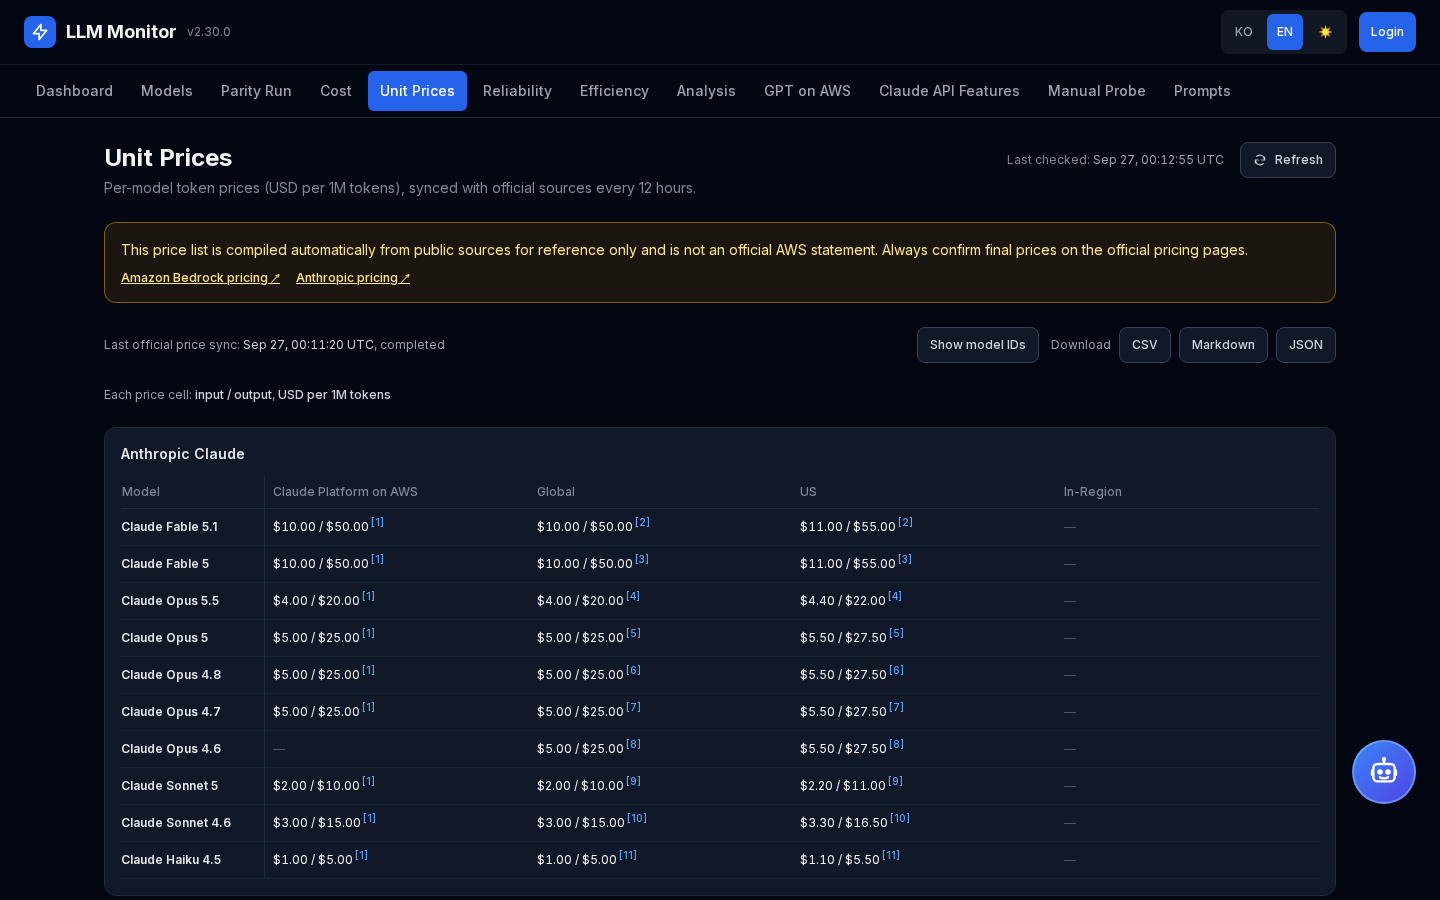
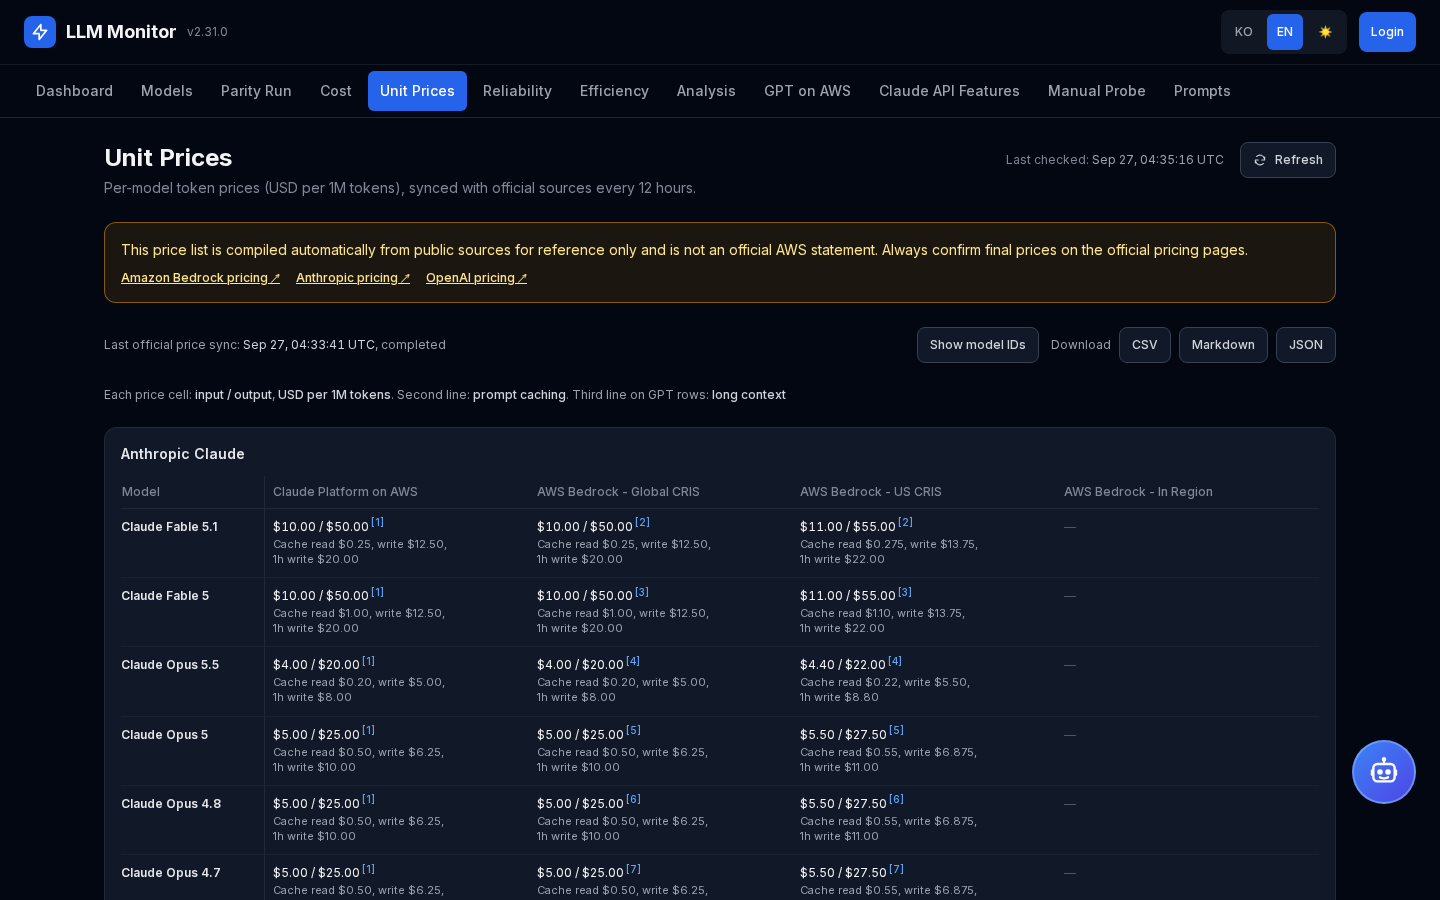
docs(readme): production Unit Prices screenshot for v2.31.0 (EN/KO)

diff --git a/README.md b/README.md
@@ -48,9 +48,9 @@ The system runs on AWS ECS Fargate (CDK-managed, 8 stacks), with EventBridge Sch
 | **Parity Run** | **Cost** |
 | ![Provider health cards and the model by API surface parity matrix](docs/images/ui/parity-en.png) | ![24-hour cost, 30-day projection and channel comparison](docs/images/ui/cost-en.png) |
 | **Reliability** | **Unit Prices** |
-| ![Per-family success rate and latency across channels](docs/images/ui/reliability-en.png) | ![Unit Prices: per-model input and output prices by channel with footnoted official sources](docs/images/ui/pricing-en.png) |
+| ![Per-family success rate and latency across channels](docs/images/ui/reliability-en.png) | ![Unit Prices: per-model input / output, prompt-caching and GPT long-context prices by channel with footnoted official sources](docs/images/ui/pricing-en.png) |
 
-Captured from production on 2026-09-26 (v2.29.0, dark theme, 1440x900). The Claude Platform on AWS column in Claude API Features and Reliability still reflects the monthly usage-cap 429 period that v2.29.0 stopped retrying, and the dashboard collection line still shows "Claude Platform on AWS every 10 min", which v2.29.1 removed with the return to every-cycle probing. The Unit Prices capture is from 2026-09-27 (v2.30.0, after the first official price sync). Korean UI captures use the `-ko.png` suffix in the same directory.
+Captured from production on 2026-09-26 (v2.29.0, dark theme, 1440x900). The Claude Platform on AWS column in Claude API Features and Reliability still reflects the monthly usage-cap 429 period that v2.29.0 stopped retrying, and the dashboard collection line still shows "Claude Platform on AWS every 10 min", which v2.29.1 removed with the return to every-cycle probing. The Unit Prices capture is from 2026-09-27 (v2.31.0, after the first price sync with prompt-caching and long-context prices). Korean UI captures use the `-ko.png` suffix in the same directory.
 
 ## Prerequisites
 
@@ -384,9 +384,9 @@ Amazon Bedrock LLM Monitor는 Bedrock Global / US 추론 프로파일(Claude Opu
 | **패리티 런** | **비용** |
 | ![프로바이더별 헬스 카드와 모델 × API surface 패리티 매트릭스](docs/images/ui/parity-ko.png) | ![24시간 비용, 30일 예측, 채널 비교](docs/images/ui/cost-ko.png) |
 | **신뢰성** | **비용 단가** |
-| ![family별 채널 성공률과 지연 비교](docs/images/ui/reliability-ko.png) | ![비용 단가: 채널별 모델 입력, 출력 단가와 각주로 연결된 공식 출처](docs/images/ui/pricing-ko.png) |
+| ![family별 채널 성공률과 지연 비교](docs/images/ui/reliability-ko.png) | ![비용 단가: 채널별 모델 입력, 출력, 프롬프트 캐싱, GPT 긴 컨텍스트 단가와 각주로 연결된 공식 출처](docs/images/ui/pricing-ko.png) |
 
-2026-09-26 운영 환경에서 캡처했습니다(v2.29.0, 다크 테마, 1440x900). Claude API 기능과 신뢰성 화면의 Claude Platform on AWS 열은 v2.29.0에서 재시도를 멈춘 월간 사용 한도 429 기간의 결과가 남아 있고, 대시보드 수집 상태 줄의 "Claude Platform on AWS 10분 주기" 표시는 v2.29.1에서 매 사이클 수집으로 돌아가며 사라졌습니다. 비용 단가 화면은 2026-09-27(v2.30.0, 첫 공식 단가 동기화 이후)에 캡처했습니다. 영문 UI 캡처는 같은 디렉터리의 `-en.png` 파일입니다.
+2026-09-26 운영 환경에서 캡처했습니다(v2.29.0, 다크 테마, 1440x900). Claude API 기능과 신뢰성 화면의 Claude Platform on AWS 열은 v2.29.0에서 재시도를 멈춘 월간 사용 한도 429 기간의 결과가 남아 있고, 대시보드 수집 상태 줄의 "Claude Platform on AWS 10분 주기" 표시는 v2.29.1에서 매 사이클 수집으로 돌아가며 사라졌습니다. 비용 단가 화면은 2026-09-27(v2.31.0, 프롬프트 캐싱과 긴 컨텍스트 단가를 처음 동기화한 뒤)에 캡처했습니다. 영문 UI 캡처는 같은 디렉터리의 `-en.png` 파일입니다.
 
 ## 사전 요구 사항
 

diff --git a/CHANGELOG.md b/CHANGELOG.md
@@ -7,6 +7,12 @@
 - 카테고리: `Added` / `Changed` / `Fixed` / `Removed` / `Security` / `Infra` / `Docs`
 - 매 commit 시 PR 또는 작업 종료 시 한 항목 추가.
 
+## Unreleased
+
+### Docs
+- README Screenshots gallery: the Unit Prices captures (`docs/images/ui/pricing-{en,ko}.png`) are retaken from production on 2026-09-27 (v2.31.0: AWS Bedrock column names, the OpenAI official price column, prompt-caching lines).
+- README 스크린샷 갤러리의 비용 단가 화면(`docs/images/ui/pricing-{en,ko}.png`)을 2026-09-27 운영 환경에서 다시 캡처했다(v2.31.0: AWS Bedrock 열 이름, OpenAI 공식 가격 열, 프롬프트 캐싱 줄).
+
 ## v2.31.0 — 2026-09-27
 
 ### Added
